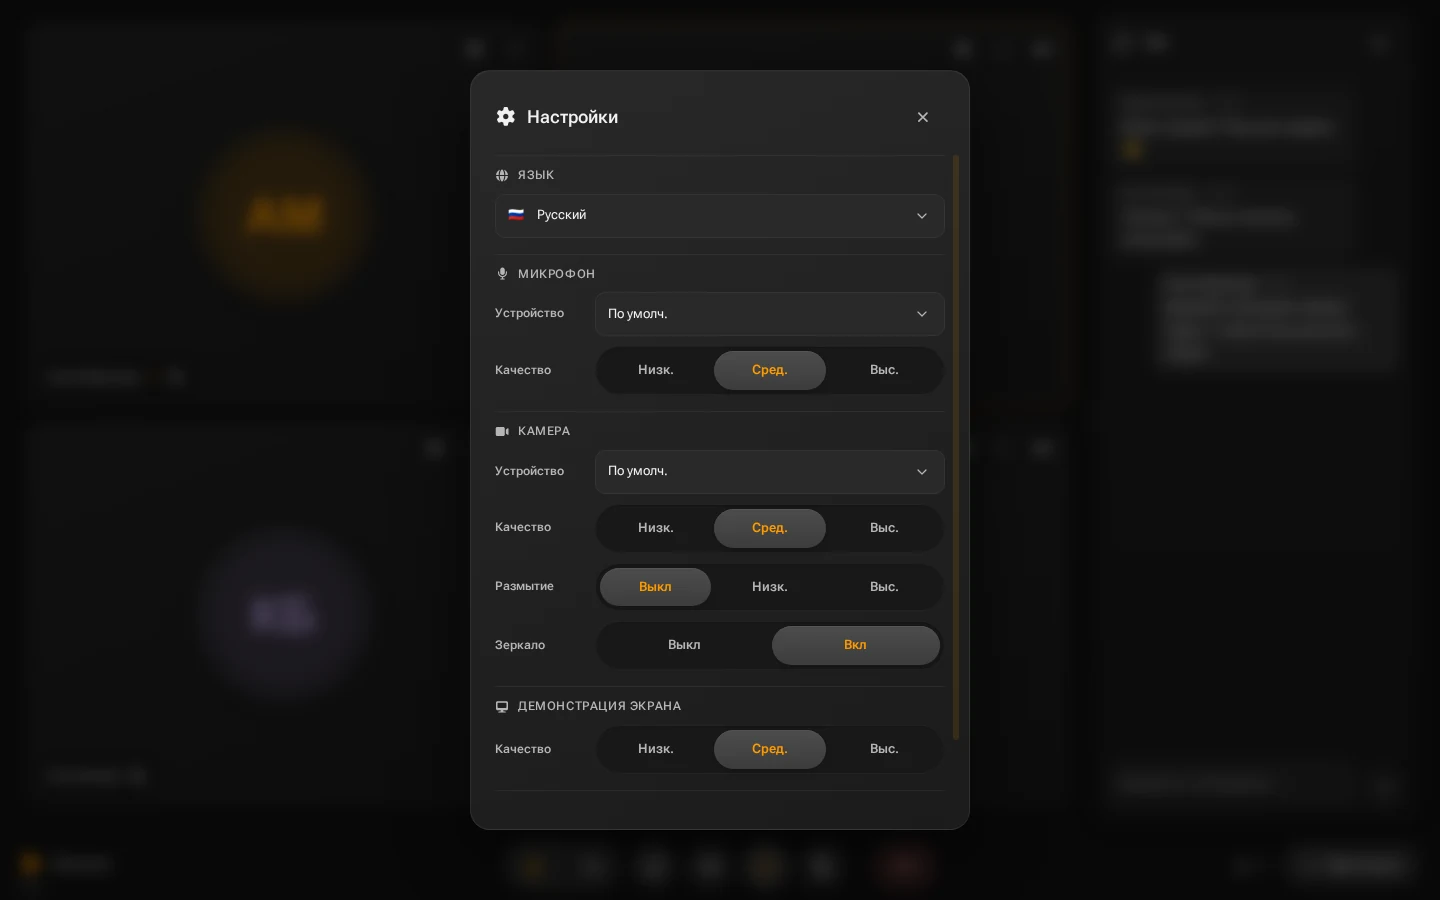
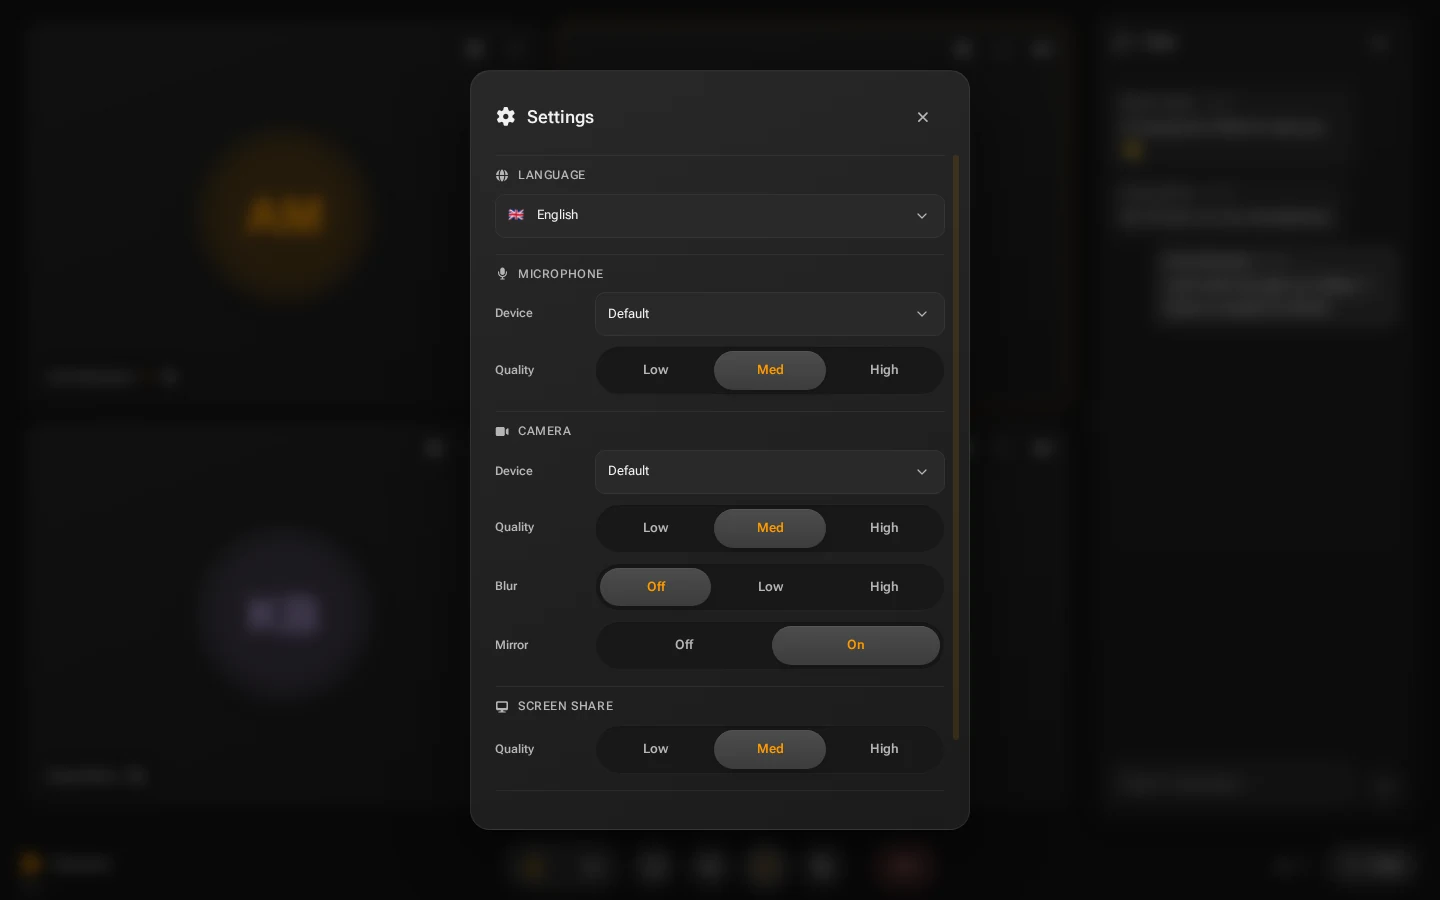
Capture all README screenshots in English with localized demo fixtures

diff --git a/apps/client/src/pages/index/design-review.jsx b/apps/client/src/pages/index/design-review.jsx
@@ -15,6 +15,7 @@ const views = [ [ "home", "Главная" ], [ "lobby", "Вход" ], [ "call",
 const validViews = views.map(([ id ]) => id);
 
 function prepareRoom(entered) {
+	const english = new URLSearchParams(location.search).get("lang") === "en";
 	const requestedPeople = Number(new URLSearchParams(location.search).get("people"));
 	const people = Number.isInteger(requestedPeople) && requestedPeople >= 1 && requestedPeople <= 4 ? requestedPeople : 4;
 	const room = new RoomData();
@@ -23,15 +24,15 @@ function prepareRoom(entered) {
 		myIdentity: "preview-anna", hasCamera: true, hasScreencast: true, canSwapCamera: true,
 		microphone: entered, camera: false,
 		users: [
-			{ identity: "preview-anna", name: root.settings.displayName || "Анна Морозова", main: true, connected: true, microphone: entered },
-			{ identity: "preview-misha", name: "Миша Волков", connected: true, microphone: true, speaking: true },
-			{ identity: "preview-katya", name: "Катя Белова", connected: true, microphone: false },
-			{ identity: "preview-dan", name: "Даня Лебедев", connected: true, microphone: true },
+			{ identity: "preview-anna", name: root.settings.displayName || (english ? "Anna Morozova" : "Анна Морозова"), main: true, connected: true, microphone: entered },
+			{ identity: "preview-misha", name: (english ? "Misha Volkov" : "Миша Волков"), connected: true, microphone: true, speaking: true },
+			{ identity: "preview-katya", name: (english ? "Katya Belova" : "Катя Белова"), connected: true, microphone: false },
+			{ identity: "preview-dan", name: (english ? "Dan Lebedev" : "Даня Лебедев"), connected: true, microphone: true },
 		].slice(0, people),
 		messages: [
-			{ identity: "preview-misha", text: "Всем привет! Рад вас видеть 👋", timestamp: new Date(2026, 9, 26, 14, 30).getTime() },
-			{ identity: "preview-katya", text: "Привет! Сейчас включу микрофон.", timestamp: new Date(2026, 9, 26, 14, 30).getTime() },
-			{ identity: "preview-anna", text: "Давайте обсудим новые идеи. У меня как раз есть пара!", timestamp: new Date(2026, 9, 26, 14, 31).getTime() },
+			{ identity: "preview-misha", text: (english ? "Hi everyone! Great to see you 👋" : "Всем привет! Рад вас видеть 👋"), timestamp: new Date(2026, 9, 26, 14, 30).getTime() },
+			{ identity: "preview-katya", text: (english ? "Hi! I’ll turn on my microphone." : "Привет! Сейчас включу микрофон."), timestamp: new Date(2026, 9, 26, 14, 30).getTime() },
+			{ identity: "preview-anna", text: (english ? "Let’s talk through our ideas. I have a couple to share!" : "Давайте обсудим новые идеи. У меня как раз есть пара!"), timestamp: new Date(2026, 9, 26, 14, 31).getTime() },
 		],
 	});
 	runInAction(() => {
@@ -85,6 +86,7 @@ function MobileReview({ palette }) {
 }
 
 export default function DesignReview() {
+	const english = new URLSearchParams(location.search).get("lang") === "en";
 	const embedded = new URLSearchParams(location.search).has("embed");
 	const [ palette, setPalette ] = useState(getPalette);
 	useEffect(() => {
@@ -99,7 +101,7 @@ export default function DesignReview() {
 		const originalTitle = document.title;
 		document.title = "sozvon";
 		runInAction(() => {
-			root.settings.language = "ru";
+			root.settings.language = new URLSearchParams(location.search).get("lang") === "en" ? "en" : "ru";
 		});
 		return () => {
 			runInAction(() => {
@@ -138,6 +140,6 @@ export default function DesignReview() {
 			{view === "brand" && <LogoGallery palette={palette} />}
 			{view === "mobile" && <MobileReview palette={palette} />}
 		</div>
-		{(view === "call" || view === "lobby") && <span className={styles.demo_note} title="Камера и звук имитируются">Демо</span>}
+		{(view === "call" || view === "lobby") && <span className={styles.demo_note} title={english ? "Camera and audio are simulated" : "Камера и звук имитируются"}>{english ? "Demo" : "Демо"}</span>}
 	</div>;
 }

diff --git a/docs/assets/README.md b/docs/assets/README.md
@@ -7,7 +7,8 @@ when changing that source; do not introduce a second repository identity.
 
 README images are WebP files in `readme/`, stored directly in Git. They show the
 running browser application's local `/design` route in the studio theme,
-with synthetic participants and chat. Camera and media access are not used.
+in English (`lang=en`), with synthetic participants and chat. Camera and media
+access are not used.
 Avatar images are locally generated SVG monograms supplied only by the capture
 script. All other external requests are blocked. No live calls are captured.
 
@@ -29,7 +30,8 @@ From the repository root in another terminal:
 node scripts/capture-readme.mjs
 ```
 
-The script uses 1440×900 desktop and 390×844 mobile viewports. It waits for
+The script enforces English visible text before saving each image and uses
+1440×900 desktop and 390×844 mobile viewports. It waits for
 local fonts and images and captures home, lobby, meeting and settings views.
 `SCREENSHOT_URL` may select a different **loopback** server; remote hosts are
 rejected to avoid accidental capture of a real meeting.
